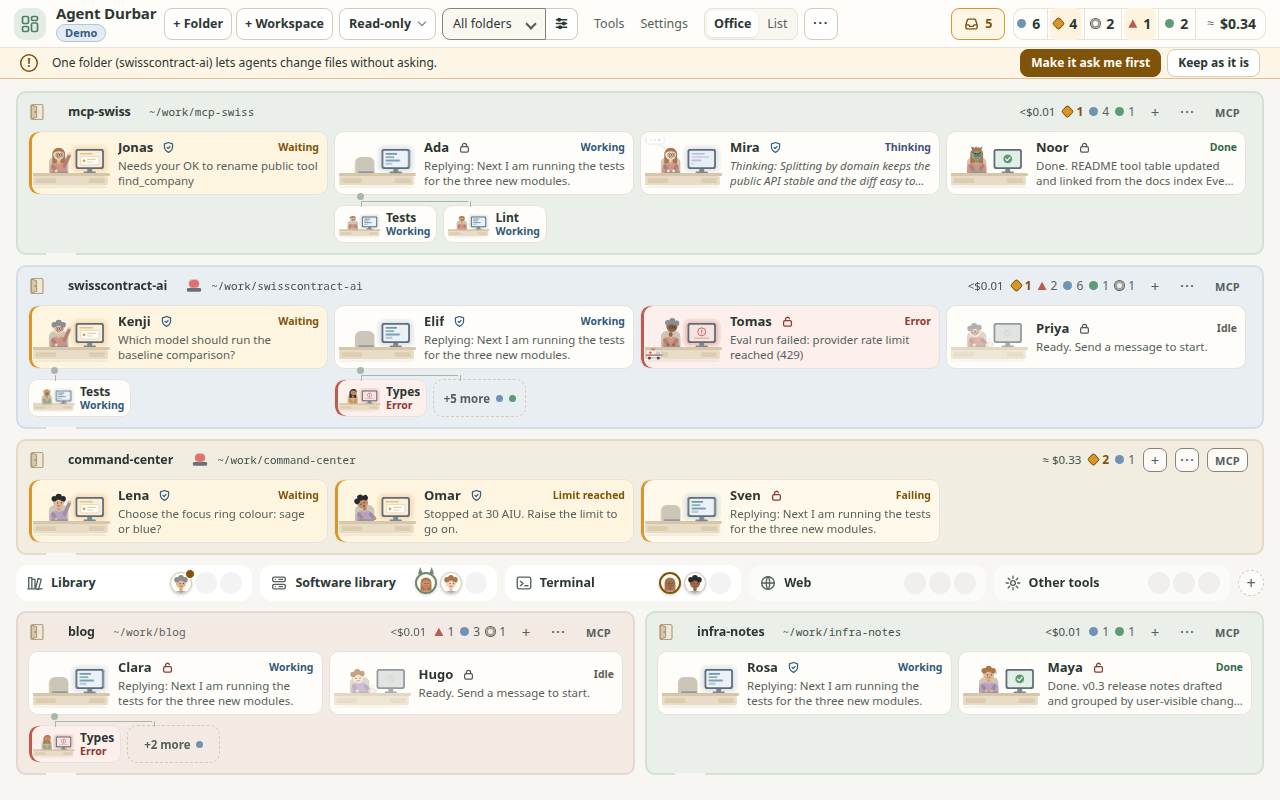
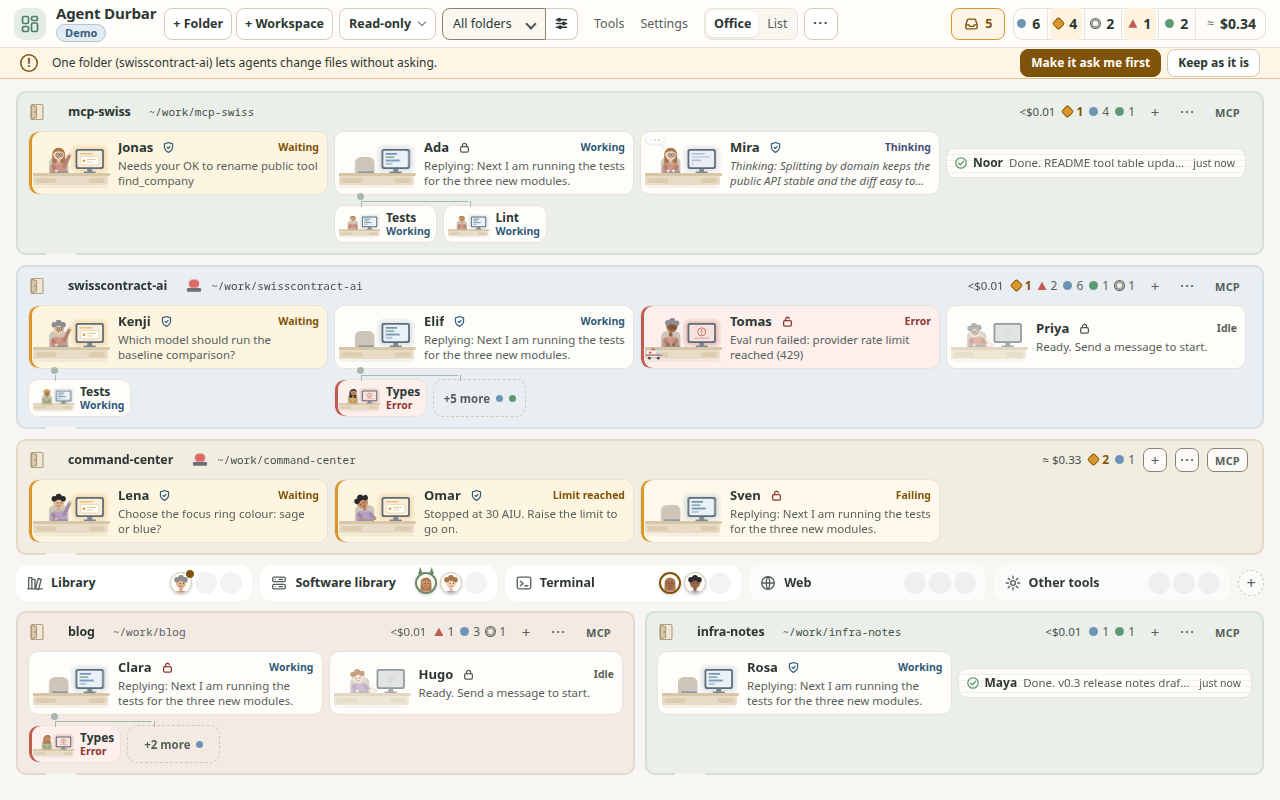
001 T077: screenshots, results; rolled-agent label escapes each part (test:sessionname)

Changed region(s): [[0.75, 0.8125, 0.9688, 0.9062], [0.75, 0.1562, 0.9688, 0.25]]

diff --git a/src/renderer/app.js b/src/renderer/app.js
@@ -730,12 +730,12 @@ function shutHTML(x){
   const {a,k}=x, st=vis(a), ago=ACT.agoLong(sinceLast(a)), said=SHUT.spoken(ago), line=shutReply(a,140);
   const who=a.profile?a.profile.name+' · '+a.role:a.role;
   const roll=SHUT_PREV&&!SHUT_PREV.has(a.id)?' rolling':'';
-  const lab=`${a.name}, ${who}, folder ${roomOf(a).path}, ${st==='done'?'finished':'idle after its reply'}${said?' '+said:''}, ${k==='recent'?'half rolled up':'rolled up'}: ${line}. Open chat panel.`;
+  const lab=`${esc(a.name)}, ${esc(who)}, folder ${esc(roomOf(a).path)}, ${st==='done'?'finished':'idle after its reply'}${said?' '+esc(said):''}, ${k==='recent'?'half rolled up':'rolled up'}: ${esc(line)}. Open chat panel.`; /* every part escaped here */
   const peek=`<span class="peek" aria-hidden="true"><span class="pk-h"><b>${esc(a.name)}</b><span class="pk-role">${esc(who)}</span></span><span class="pk-st">${SHUT_MARK}${esc(stWord(a))}${ago?' · finished '+esc(ago):''}</span><span class="pk-tx">${esc(shutReply(a,300))}</span></span>`;
   const body=k==='recent'
     ?`${SHUT_MARK}<span class="sh-name name">${esc(a.name)}</span><span class="sh-line">${esc(line)}</span>${ago?`<span class="sh-ago">${esc(ago)}</span>`:''}`
     :`${SHUT_MARK}<span class="sh-name name">${esc(a.name)}</span>`;
-  return `<button class="desk shut is-${k} is-${st}${roll}" type="button" data-id="${esc(a.id)}" aria-pressed="${ui.selected===a.id}" aria-label="${esc(lab)}">${body}${peek}</button>`;
+  return `<button class="desk shut is-${k} is-${st}${roll}" type="button" data-id="${esc(a.id)}" aria-pressed="${ui.selected===a.id}" aria-label="${lab}">${body}${peek}</button>`;
 }
 /* FR-053: the rolled agents of a room share one slot of its desk grid (the free cells of the last row, else a slim row of its own) */
 const shutSlots=m=>m.mains.length+(m.rolled&&m.rolled.length?1:0);

diff --git a/specs/001-office-view-and-densities/spec.md b/specs/001-office-view-and-densities/spec.md
@@ -3,7 +3,7 @@
 <!-- specs-index (the row of the generated specs index; npm run specs:index shows it)
 group: index
 title: Office view, densities, list view, filters
-status: implemented; delta 2026-10-18: main agents show their session title (issue #126); delta 2026-10-18: room headers fit with many one-agent folders (FR-023/FR-024); short names not cut by a long status (FR-025); delta 2026-10-19: arrow keys between desks (FR-019); delta 2026-10-19: first-run welcome (FR-026); delta 2026-10-21: live activity on the desks (FR-028..FR-032: thinking, tool or reply on the desk, side panel when there is room); delta 2026-10-21: faster layout search, same layout (FR-033, SC-004); delta 2026-10-22: grown desks when there are few agents (FR-041..FR-046, simulator-checked; owner decisions 2026-10-22: grown desks before the side panel, a wide grown desk shows more in columns, FR-047..FR-050); T024 closed 2026-10-21 by the owner's hand-check on macOS (daily) and Windows (with a colleague), not a scripted check, no real-machine screenshots delta 2026-10-22: finished agents roll in when their room has others at work (FR-051..FR-057, in progress);
+status: implemented; delta 2026-10-18: main agents show their session title (issue #126); delta 2026-10-18: room headers fit with many one-agent folders (FR-023/FR-024); short names not cut by a long status (FR-025); delta 2026-10-19: arrow keys between desks (FR-019); delta 2026-10-19: first-run welcome (FR-026); delta 2026-10-21: live activity on the desks (FR-028..FR-032: thinking, tool or reply on the desk, side panel when there is room); delta 2026-10-21: faster layout search, same layout (FR-033, SC-004); delta 2026-10-22: grown desks when there are few agents (FR-041..FR-046, simulator-checked; owner decisions 2026-10-22: grown desks before the side panel, a wide grown desk shows more in columns, FR-047..FR-050); T024 closed 2026-10-21 by the owner's hand-check on macOS (daily) and Windows (with a colleague), not a scripted check, no real-machine screenshots delta 2026-10-22: finished agents roll in when their room has others at work (FR-051..FR-057, simulator-checked);
 -->
 
 **Feature Branch**: `001-office-view-and-densities` (reverse-engineered; shipped on `main`, milestones 2, 4 and 5)
@@ -310,13 +310,14 @@ Spec [024](../024-office-places/spec.md) adds a one-row **lobby** band between t
 *Existing capabilities reused (no parallel system):* the room model `officeModel` and the layout search `chooseLayout` / `growSearch` (rolled agents simply are not desks in the column search, so the space they free goes to the other desks, grown ones included); the `"+N more"` pattern of the helper strip (`.more`, `data-more`, `ui.expanded`) for the old chips; the existing states (`vis`, `a.paused`, `a.limit`, `isAway`, `helpersOf`); the "last activity" time (`a.lastEventAt`, `sinceLast`, `DurbarActivity.agoLong`) and its 30 s repaint tick, as the time an agent finished; the masked reply excerpt (`DurbarLiveAct.excerpt` with `DurbarRedact.redact`, FR-043); the desk click, Enter and arrow-key handlers (`[data-id]`, `DESK_NAV`); the reduced-motion rule of `styles.css`; the Settings switch pattern of *Live activity on desks* (FR-032).
 
 *Added (owner defaults, stated and not asked; each one is the owner's to change):*
-- **FR-051** **Who rolls in.** A main agent is *finished* when it is Done, or Idle after a finished turn in this session (it has a last reply), **and** it is not paused, not at its spending limit, not away at a place (or walking back), and none of its helpers is still busy (each is Done or Idle). Waiting (needs you), Error, Limit, Paused (the "coffee break") and Working/Thinking agents never roll in, and neither does an Idle agent that has not replied yet. A finished agent rolls in **only when its room (folder) also has at least one main agent that does not roll in**; a room where everyone is finished stays as it is. The rule looks at the whole room, not the status filter (as the layout already does).
-- **FR-052** **Two shutter sizes.** *Recent* (finished less than **10 minutes** ago, by its last event, the same time the desk's "Last activity" shows): **half rolled**, a slim strip with the name, a Done mark, the first line of its last reply (masked by `redact` on the raw text before Markdown is removed, as FR-043; without a working mask: `Finished.` / `Ready.`) and the time ("2 min ago"). *Old* (10 minutes or more, or the time is unknown): **fully rolled**, a small chip with the name and a Done mark. Strips come first, then the chips, together in one row at the end of the room (wrapping when needed); at most **4** old chips show, the rest behind a `+N` button (the helper strip's `"+N more"` pattern: it shows all of them, then *Show fewer*). A strip becomes a chip when its time passes 10 minutes (the existing 30 s repaint tick); an agent that starts again unrolls to its desk.
-- **FR-053** **Space.** Rolled agents are not desks in the layout search: the room's columns count only its open desks, so the space goes to the other desks (larger densities, or grown desks, FR-041..FR-044). The shutter row's height is measured in the same probe, so a layout that fits still has no scroll. The 15-agent rule (FR-005, SC-001) holds: the simulator's 15 agents fit with no scroll at 1440x900 and 1280x800 with or without rolled agents.
-- **FR-054** **Unroll, open, reach.** Hover or keyboard focus unrolls a strip or chip for a moment: a small card rolls down above it (name, role, `Done · finished 12 min ago`, two lines of the masked reply) without moving anything; it rolls back when the pointer or focus leaves. A click or Enter opens the chat, as on a desk (FR-010). Strips and chips are buttons in the desk keyboard order (Tab, and the arrow keys of FR-019), with a screen-reader label such as "Ada, Refactorer, folder ~/work/x, finished 12 minutes ago, rolled up. Open chat panel."
-- **FR-055** **Calm.** Rolling in and out is one short roll (`transform` and `opacity`, about 220 ms) on the element that just changed; reduced motion: no animation. Colours are theme tokens only; text is at least 10.5 px; nothing overlaps or leaves its room.
-- **FR-056** **Setting.** Settings > Detail level gains *Roll up finished agents* (default **on**, kept in this window's `localStorage` like *Live activity on desks*); off, every agent keeps its desk as before. (There is no separate "Office" section; the office display switches live in this section.)
-- **FR-057** **Checks.** `npm run test:shutters` (pure, `src/renderer/shutters.js`): the classification (recent, old, never; the 10-minute edge; unknown time; every state that never rolls), the room rule (a room of only finished agents, one open agent, helpers busy) and the chip cap. `check:office` and `check:office-fill` gain rooms that mix working and finished agents (2 working + 3 finished, 1 recent and 2 old; and the simulator's 15 agents with rolled ones) at 1440x900 and 1280x800: no overlap, nothing outside its room, text at least 10.5 px, every rolled agent is a focusable button with its label, the 15 agents fit with no scroll, and the open desks get the space (larger or as large as without rolling).
+- **FR-051** `[IMPLEMENTED]` **Who rolls in.** A main agent is *finished* when it is Done, or Idle after a finished turn in this session (it has a last reply), **and** it is not paused, not at its spending limit, not away at a place (or walking back), and none of its helpers is still busy (each is Done or Idle). Waiting (needs you), Error, Limit, Paused (the "coffee break") and Working/Thinking agents never roll in, and neither does an Idle agent that has not replied yet. A finished agent rolls in **only when its room (folder) also has at least one main agent that does not roll in**; a room where everyone is finished stays as it is. The rule looks at the whole room, not the status filter (as the layout already does).
+- **FR-052** `[IMPLEMENTED]` **Two shutter sizes.** *Recent* (finished less than **10 minutes** ago, by its last event, the same time the desk's "Last activity" shows): **half rolled**, a slim strip with the name, a Done mark, the first line of its last reply (masked by `redact` on the raw text before Markdown is removed, as FR-043; without a working mask: `Finished.` / `Ready.`) and the time ("2 min ago"). *Old* (10 minutes or more, or the time is unknown): **fully rolled**, a small chip with the name and a Done mark. Strips come first, then the chips, together in one row at the end of the room (wrapping when needed); at most **4** old chips show, the rest behind a `+N` button (the helper strip's `"+N more"` pattern: it shows all of them, then *Show fewer*). A strip becomes a chip when its time passes 10 minutes (the existing 30 s repaint tick); an agent that starts again unrolls to its desk.
+- **FR-053** `[IMPLEMENTED]` **Space.** Rolled agents are not desks in the layout search: the room's columns count only its open desks, so the space goes to the other desks (larger densities, or grown desks, FR-041..FR-044). The shutter row's height is measured in the same probe, so a layout that fits still has no scroll. The 15-agent rule (FR-005, SC-001) holds: the simulator's 15 agents fit with no scroll at 1440x900 and 1280x800 with or without rolled agents.
+- **FR-054** `[IMPLEMENTED]` **Unroll, open, reach.** Hover or keyboard focus unrolls a strip or chip for a moment: a small card rolls open above its row (below it when the floor has no room above; name, role, `Done · finished 12 min ago`, two lines of the masked reply) without moving anything; it rolls back when the pointer or focus leaves. A click or Enter opens the chat, as on a desk (FR-010). Strips and chips are buttons in the desk keyboard order (Tab, and the arrow keys of FR-019), with a screen-reader label such as "Ada, Refactorer, folder ~/work/x, finished 12 minutes ago, rolled up. Open chat panel."
+- **FR-055** `[IMPLEMENTED]` **Calm.** Rolling in and out is one short roll (`transform` and `opacity`, about 220 ms) on the element that just changed; reduced motion: no animation. Colours are theme tokens only; text is at least 10.5 px; nothing overlaps or leaves its room.
+- **FR-056** `[IMPLEMENTED]` **Setting.** Settings > Detail level gains *Roll up finished agents* (default **on**, kept in this window's `localStorage` like *Live activity on desks*); off, every agent keeps its desk as before. (There is no separate "Office" section; the office display switches live in this section.)
+- **FR-057** `[IMPLEMENTED]` **Checks.** `npm run test:shutters` (pure, `src/renderer/shutters.js`): the classification (recent, old, never; the 10-minute edge; unknown time; every state that never rolls), the room rule (a room of only finished agents, one open agent, helpers busy), the chip cap and the spoken time, plus source checks that the page uses them. `check:office-fill` gains a folder with 2 working and 3 finished agents (1 recent, 2 old) next to a busy folder at 1440x900 and 1280x800: a strip and two chips, the page rules of `check:office` (no overlap, nothing outside its room, text at least 10.5 px), every rolled agent is a focusable button with its label and in the arrow-key order, hover unrolls a card without moving anything, Enter opens the chat, the open desks are at least as large as with the setting off (through the Settings switch), a strip becomes a chip after 10 minutes, an agent that starts again gets its desk back, a token in the reply is masked on the strip; and the simulator's 15 agents roll in Noor and Maya and still fit, not grown. `check:office` runs unchanged on the simulator's 15 agents, which now include the two rolled ones.
+- *Result (2026-10-22, Linux, Xvfb, simulator only, no credits):* `test:shutters` 53 checks; `check:office-fill` all checks (72 layouts; 2 working + 3 finished: 1440x900 open desks 452x230 at *f* 2.5 against 267x230 with the setting off, 1280x800 *f* 1.9 (399x175) against *f* 1.4 (399x129)); `check:office` 386/386; the simulator's 15 agents stay `card` at 1440x900 and `mini` at 1280x800, as before. Mutations, each killed: no room rule, `<=` at 10 minutes, paused or busy helpers or never-ran Idle allowed, `+1` chips (`test:shutters`); rolled agents left in the layout search, the reply line unmasked, no hover card (`check:office-fill`). Not killed: dropping the size from the layout key (a strip only ever shrinks to a chip, so the cached layout still fits; the key keeps it for a chip that becomes a strip again; `test:shutters` checks the key's source). Screenshots: `docs/screenshots/001-shutters-{1440x900,1280x800}.png`, `001-shutters-peek-1440x900.png`, and `001-fill-15-{1440x900,1280x800}.png` replaced (Noor and Maya rolled in). Not checked: a real session (the time is the last event's arrival, as the desk's "Last activity"), macOS and Windows fonts, the owner's own office, a screen reader (labels checked in the page only).
 
 ### 2026-10-21: owner hand-check on macOS and Windows (T024, issue #10)
 

diff --git a/specs/001-office-view-and-densities/tasks.md b/specs/001-office-view-and-densities/tasks.md
@@ -75,12 +75,12 @@
 
 ## Changes 2026-10-22 (finished agents roll in, owner)
 
-- [ ] T072 `src/renderer/shutters.js` (`finished`, `kindOf`, `roomPlan`, `split`, `RECENT_MS`, `OLD_CAP`) + `scripts/test-shutters.ts` (`npm run test:shutters`, in `test:serial`); `copy-assets.js`, `index.html` [FR-051, FR-052, FR-057]
-- [ ] T073 `app.js`: `officeModel` splits `mains`/`rolled`; layout key; `roomHTML` shutter row (strips, chips, `+N`), `.peek`, labels, `rolling` class; `__durbarSimUi.render` [FR-051..FR-054]
-- [ ] T074 `styles.css`: `.shutters`, `.desk.shut` strip and chip, `.peek` roll, roll-in; theme tokens; >= 10.5 px [FR-054, FR-055]
-- [ ] T075 Settings > Detail level: *Roll up finished agents* switch (`screens.js`, `durbar.shutters`) [FR-056]
-- [ ] T076 `check:office` (15 agents with rolled ones, keyboard reach and labels) and `check:office-fill` (2 working + 3 finished, 1 recent + 2 old, at 1440x900 and 1280x800; open desks get the space); mutation checks [FR-053, FR-057]
-- [ ] T077 Screenshots `docs/screenshots/001-shutters-{1440x900,1280x800}.png` (simulator); README office section, `changelog.d/001-office-shutters.md`, the specs-index block [FR-057]
+- [x] T072 `src/renderer/shutters.js` (`finished`, `kindOf`, `roomPlan`, `split`, `RECENT_MS`, `OLD_CAP`) + `scripts/test-shutters.ts` (`npm run test:shutters`, in `test:serial`); `copy-assets.js`, `index.html` [FR-051, FR-052, FR-057]
+- [x] T073 `app.js`: `officeModel` splits `mains`/`rolled`; layout key; `roomHTML` shutter row (strips, chips, `+N`), `.peek`, labels, `rolling` class; `__durbarSimUi.render` [FR-051..FR-054]
+- [x] T074 `styles.css`: `.shutters`, `.desk.shut` strip and chip, `.peek` roll, roll-in; theme tokens; >= 10.5 px [FR-054, FR-055]
+- [x] T075 Settings > Detail level: *Roll up finished agents* switch (`screens.js`, `durbar.shutters`) [FR-056]
+- [x] T076 `check:office` (unchanged; its 15 agents now include rolled ones) and `check:office-fill` (keyboard reach, labels, hover card; 2 working + 3 finished, 1 recent + 2 old, at 1440x900 and 1280x800; open desks get the space); mutation checks [FR-053, FR-057]
+- [x] T077 Screenshots `docs/screenshots/001-shutters-{1440x900,1280x800}.png` (simulator); README office section, `changelog.d/001-office-shutters.md`, the specs-index block [FR-057]
 
 ## Changes 2026-10-21 (layout speed, PR #457 finding)
 
